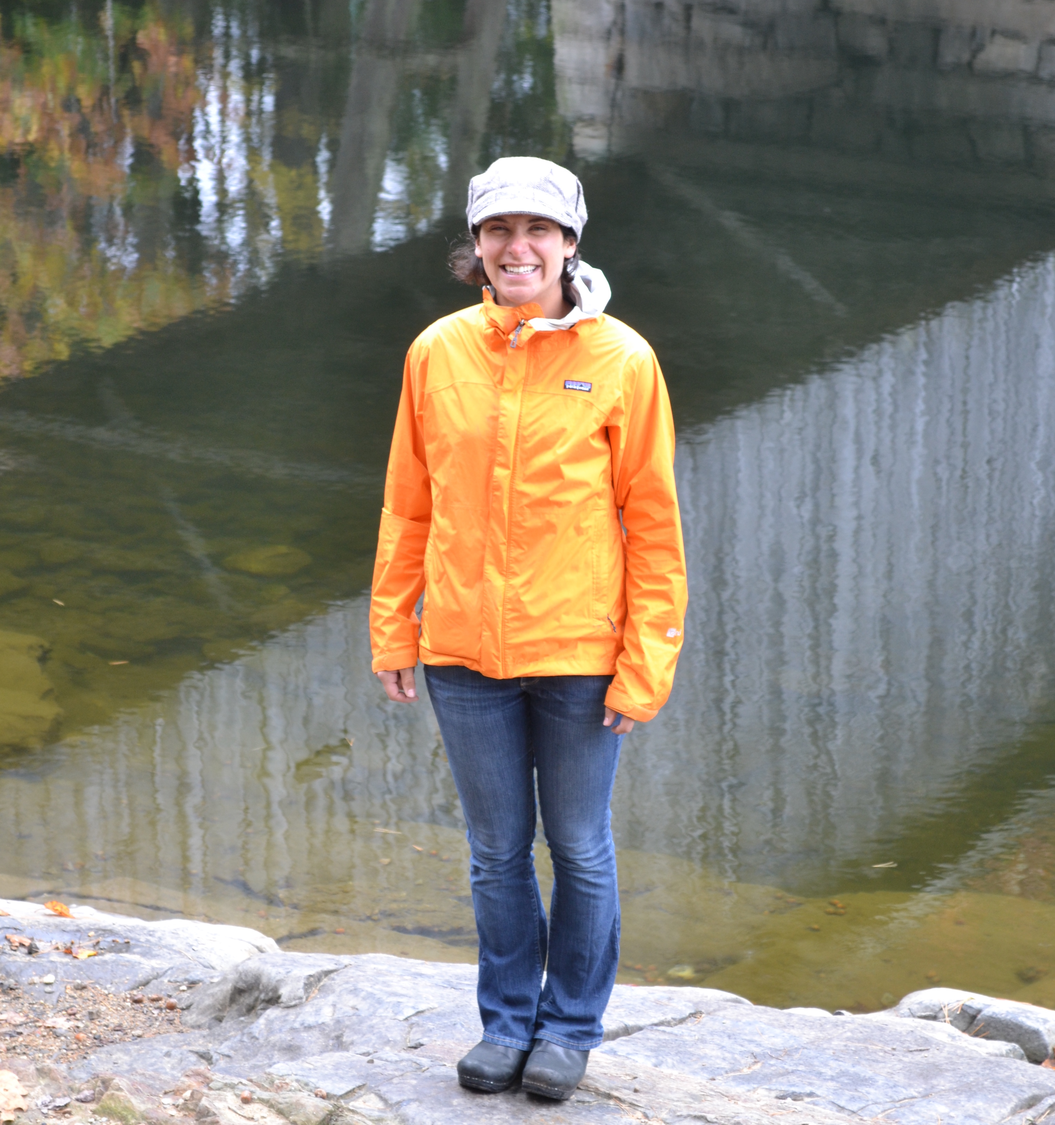
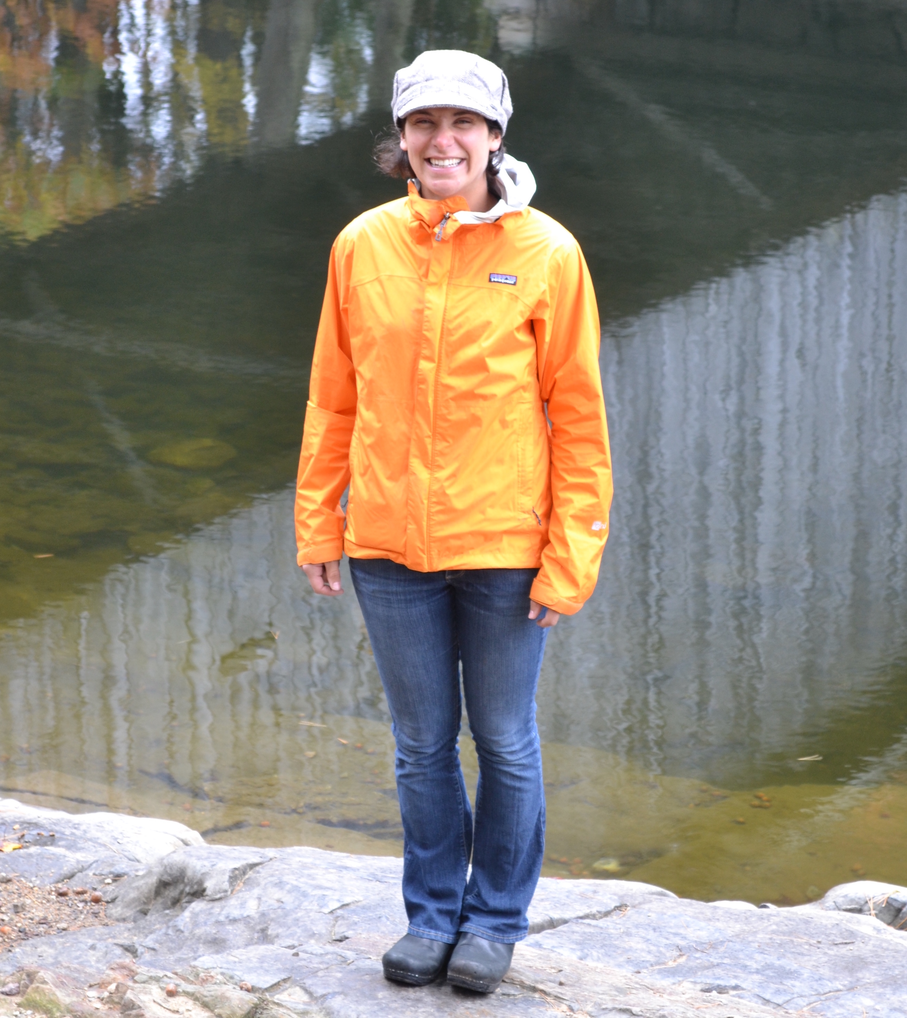
portfolio photo

diff --git a/src/components/About/index.js b/src/components/About/index.js
@@ -1,6 +1,6 @@
 import React from "react";
 // import coverImage from "../../assets/cover/brick-background.jpg";
-import profileImage from "../../assets/profile.jpg";
+import profileImage from "../../assets/1a.jpg";
 import { Grid, Box } from "@mui/material";
 
 const About = () => {
@@ -8,15 +8,14 @@ const About = () => {
     <div>
       <Box sx={{ flexGrow: 1 }}>
         <Grid container className="flex-row">
-          <Grid container>
             <Grid container>
             <img
               src={profileImage}
               alt="profile"
               className="py-1 my-2"
-              style={{ width: "35%" }}
+              style={{ width: "30%"}}
             />
-            <p className="about_text1 px-2 my-5" style={{ width: "65%" }}>
+            <p className="about_text px-2 my-5" style={{ width: "65%" }}>
               Full stack developer, focused on taking difficult aspects of a job
               and making them more streamlined, organized, cleaner, and
               efficient. Born in the mountains, I have been working in the ski
@@ -24,22 +23,10 @@ const About = () => {
               public accidentally does, training others in tactical high
               angle-rescue, and helping sick and injured patients on the slope.
               I’ve devoted most of my life to heavy lifting, hard work, and
-              developing programs to make this work easier, including a tracking
-              system for explosives, an automated scheduler, and an
-              easy-to-follow evacuation plan that pulls everyone together with a
-              common goal.
+              developing programs to make this work easier. I wnat to learn and grow
+              as a developer, meeting challenges and solving problems. 
               </p>
             </Grid>
-            <Grid className="px-2">
-            <p className="about_text px-2"> While I’ve been a developer my whole life, I’ve
-              recently gotten more serious and attained a certificate from
-              Columbia Engineering bootcamp. I enjoy challenges and solving
-              problems, and coding provides a platform of endless learning as
-              well as tangible accomplishment. I want to learn and grow as a
-              developer, using best practices to solve real world problems.{" "}
-            </p>
-            </Grid>
-          </Grid>
           <Grid container justifyContent="center" style={{ width: "100%" }}>
             <div className="icons">
               <img

diff --git a/src/index.css b/src/index.css
@@ -299,6 +299,12 @@ a {
   color: var(--secondary);
 }
 
+/* .portfolio-name {
+  animation: fadeIn 5s;
+  font-family: "bigillabold";
+  font-size: 64px;
+} */
+
 .image {
   margin-left: 3vw;
   margin-right: 0vw;
@@ -329,18 +335,12 @@ a {
   padding-left: 2vw;
 }
 
-.about_text1 {
-  justify-content: center;
-  align-content: center;
-  align-items: center;
-  font-size: 1.7vw;
-  padding-top: 2.5vw;
-}
 .about_text {
   justify-content: center;
   align-content: center;
   align-items: center;
   font-size: 1.7vw;
+  text-align: center;
 }
 
 .icons {

diff --git a/src/components/Nav/index.js b/src/components/Nav/index.js
@@ -6,7 +6,7 @@ function Nav(props) {
     <header className="navbar flex-row mx-auto">
       <h2 className="mx-2">
         <a data-testid="link" href="/">
-          <span role="img">Samantha Haberman</span>
+          <span className="portfolio-name" role="img" >Samantha Haberman</span>
         </a>
       </h2>
       <nav>
